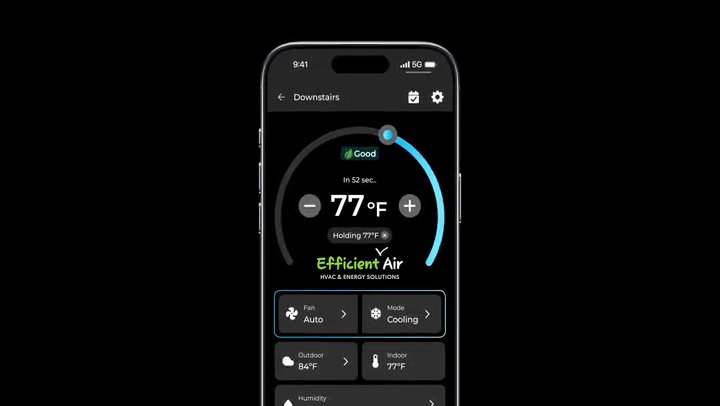
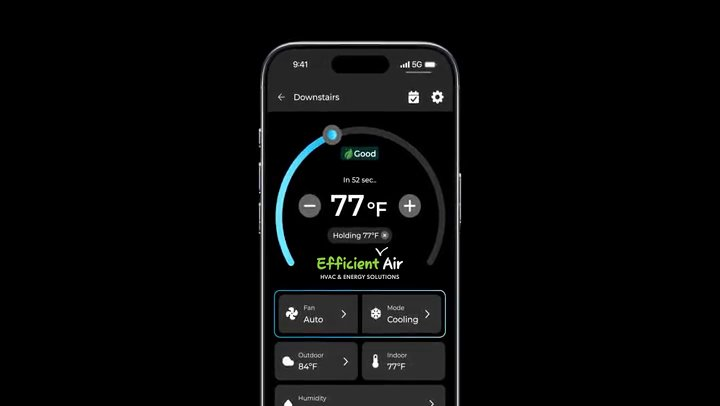
Add --arc-ltr (phone clip arc fills left to right); use it on Efficient Air recap

diff --git a/efficient-air-recap/index.html b/efficient-air-recap/index.html
@@ -302,7 +302,7 @@ footer a{color:#8b97a3}
   </div>
 
   <div class="feat reveal">
-    <div class="media"><video muted loop playsinline preload="none" poster="phone.jpg?v=9a47c2d8" data-src="phone.mp4?v=e28ab49c"></video></div>
+    <div class="media"><video muted loop playsinline preload="none" poster="phone.jpg?v=3f209bed" data-src="phone.mp4?v=7d54cf27"></video></div>
     <div class="txt"><h3>Comfort control from anywhere</h3><p>Remote temperature, schedules and vacation mode from the phone. A premium experience that makes your install the best one they've had.</p></div>
   </div>
 

diff --git a/tools/brand_videos.py b/tools/brand_videos.py
@@ -485,7 +485,24 @@ PH_REF = (259, 460, 41)                 # phone left, right, top at the settled 
 PH_C, PH_MAX = (360, 263), (92, 32)     # logo box: under the "Holding" pill, between the arc ends, above Fan/Mode
 
 
-def brand_phone(logo_light, out_dir):
+PH_DIAL = (359.5, 215.5)                # dial center at the settled frame (centered on the phone)
+PH_RING = (71, 100)                     # ring + knob + glow band; inside 71 is the "Good" pill and +/- buttons
+PH_RING_YMAX = 284                      # stop above the Fan/Mode cards between the ring ends
+
+
+def mirror_arc(f, s, cx, cy):
+    """Mirror only the dial ring left-right, so the arc fills from the bottom left, over the top, to the right."""
+    h, w = f.shape[:2]
+    yy, xx = np.mgrid[0:h, 0:w].astype(np.float32)
+    d = np.hypot(xx - cx, yy - cy)
+    m = (d >= PH_RING[0] * s) & (d <= PH_RING[1] * s) & (yy <= cy + (PH_RING_YMAX - PH_DIAL[1]) * s)
+    mx = (2 * np.float32(cx) - xx).astype(np.float32)
+    flip = cv2.remap(f, mx, yy, cv2.INTER_LINEAR, borderMode=cv2.BORDER_REPLICATE)
+    a = cv2.GaussianBlur(m.astype(np.float32), (0, 0), 1.2)[..., None]   # soft seam
+    return (flip * a + f * (1 - a)).astype(np.uint8)
+
+
+def brand_phone(logo_light, out_dir, arc_ltr=False):
     fr, fps = read('phone.mp4')
     L0 = fit(logo_light, PH_MAX[0] * 2, PH_MAX[1] * 2)
     boxes, ks = [], []
@@ -504,6 +521,10 @@ def brand_phone(logo_light, out_dir):
         s = (b[1] - b[0]) / (PH_REF[1] - PH_REF[0])
         cx = (b[0] + b[1]) / 2 + (PH_C[0] - (PH_REF[0] + PH_REF[1]) / 2) * s
         cy = b[2] + (PH_C[1] - PH_REF[2]) * s
+        if arc_ltr:
+            dx = (b[0] + b[1]) / 2 + (PH_DIAL[0] - (PH_REF[0] + PH_REF[1]) / 2) * s
+            dy = b[2] + (PH_DIAL[1] - PH_REF[2]) * s
+            g = mirror_arc(g, s, dx, dy)
         L = fit(L0, PH_MAX[0] * s, PH_MAX[1] * s)
         if ks[i] > 0.02:
             paste(g, L, int(round(cx - L.width / 2)), int(round(cy - L.height / 2)), opacity=min(1.0, ks[i]))
@@ -527,12 +548,12 @@ def brand_remote(logo_light, out_dir):
     return out
 
 
-def brand_all(logo_color, logo_light, brand, out_dir, bg=None):
+def brand_all(logo_color, logo_light, brand, out_dir, bg=None, arc_ltr=False):
     a = brand_app(logo_light, brand, out_dir, logo_color=logo_color)
     b = brand_alerts(logo_light, out_dir)
     c = brand_dashboard(logo_color, brand, out_dir)
     t = brand_tap(logo_light, out_dir)
-    p = brand_phone(logo_light, out_dir)
+    p = brand_phone(logo_light, out_dir, arc_ltr=arc_ltr)
     r = brand_remote(logo_light, out_dir)
     # review sheet: one settled frame from each clip, plus zooms on the small logos (gitignored)
     th = 300

diff --git a/tools/make_page.py b/tools/make_page.py
@@ -567,6 +567,7 @@ def main():
     ap.add_argument('--plan-price', type=int, default=29, help='partnership: example monthly price (default 29)')
     ap.add_argument('--customers', type=int, help='partnership: customer database size, for the on-a-plan math')
     ap.add_argument('--plan-goal', type=int, default=30, help='partnership: %% of customers on a plan for the math (default 30)')
+    ap.add_argument('--arc-ltr', action='store_true', help='phone clip: temperature arc fills from the bottom left, over the top, to the right')
     ap.add_argument('--marketing', action='store_true', help='add the "Our marketing team" rollout-content section')
     ap.add_argument('--short', help='short company name for section copy, e.g. "Apex" (default: --company)')
     args = ap.parse_args()
@@ -603,7 +604,7 @@ def main():
         else:
             brand = brand_color(prep_logo(args.logo, keep_dark=True))
         if args.tile_color: os.environ['NUVE_TILE_COLOR'] = args.tile_color
-        brand_videos.brand_all(prep_logo(args.logo, keep_dark=True), logo, brand, out, bg=brand_videos.logo_bg(args.logo))
+        brand_videos.brand_all(prep_logo(args.logo, keep_dark=True), logo, brand, out, bg=brand_videos.logo_bg(args.logo), arc_ltr=args.arc_ltr)
         vids = {k: k for k in vids}
         print('videos branded, theme color #%02x%02x%02x' % brand)
 
